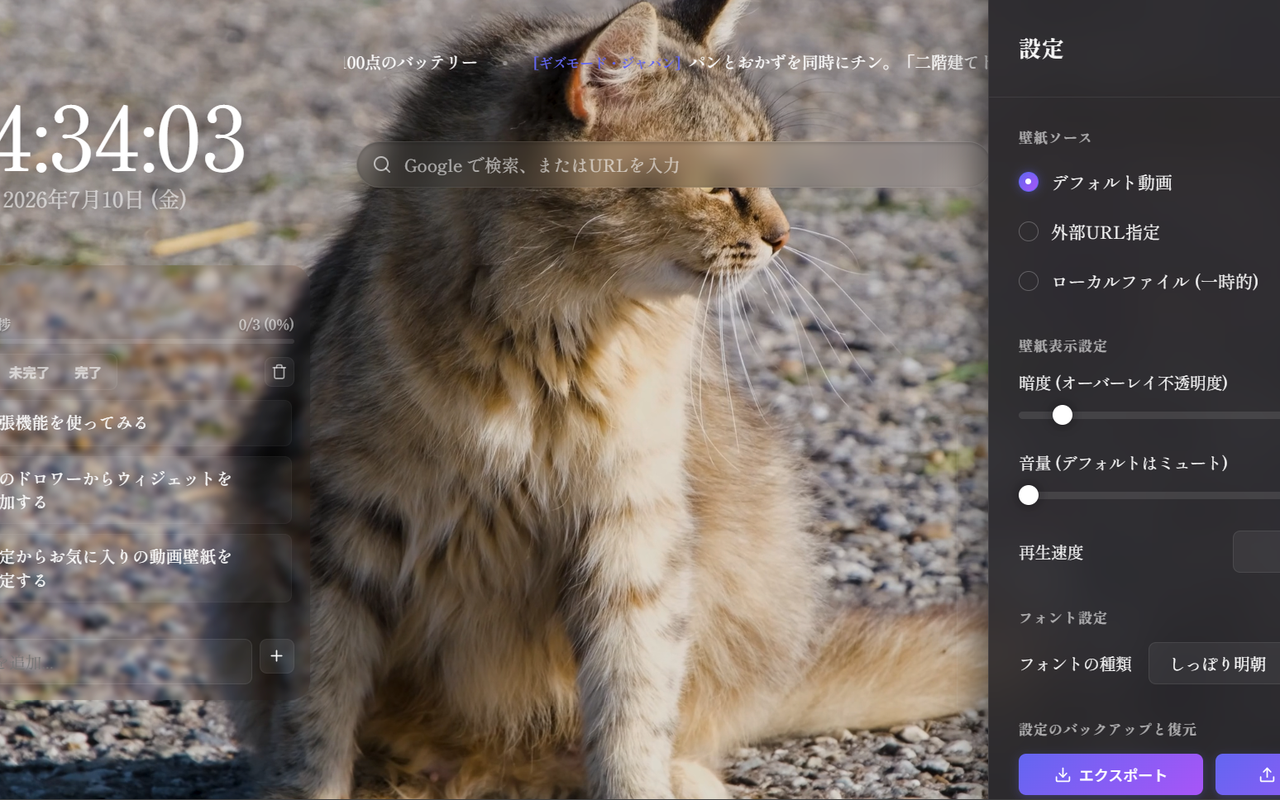
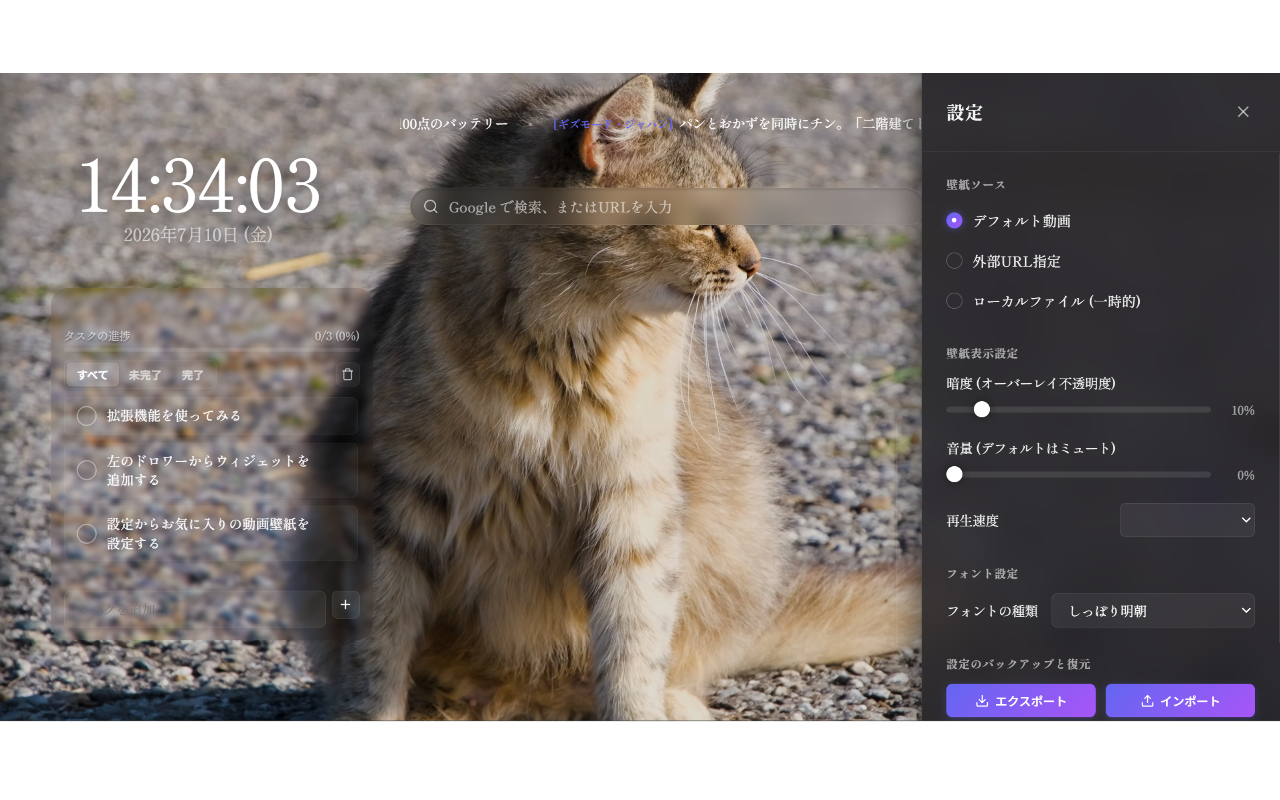
ドキュメント更新：プロジェクト表記を窓辺（madobe）に変更、およびスクリーンショットの微細な調整

diff --git a/仕様書.md b/仕様書.md
@@ -5,7 +5,7 @@
 
 ### ディレクトリ構成
 ```text
-chrome-wallpaper/
+madobe/
 ├── manifest.json         # 拡張機能のマニフェストファイル
 ├── newtab.html           # 新規タブのメインHTML
 ├── newtab.js             # メインロジック (ES Modules エントリーポイント)